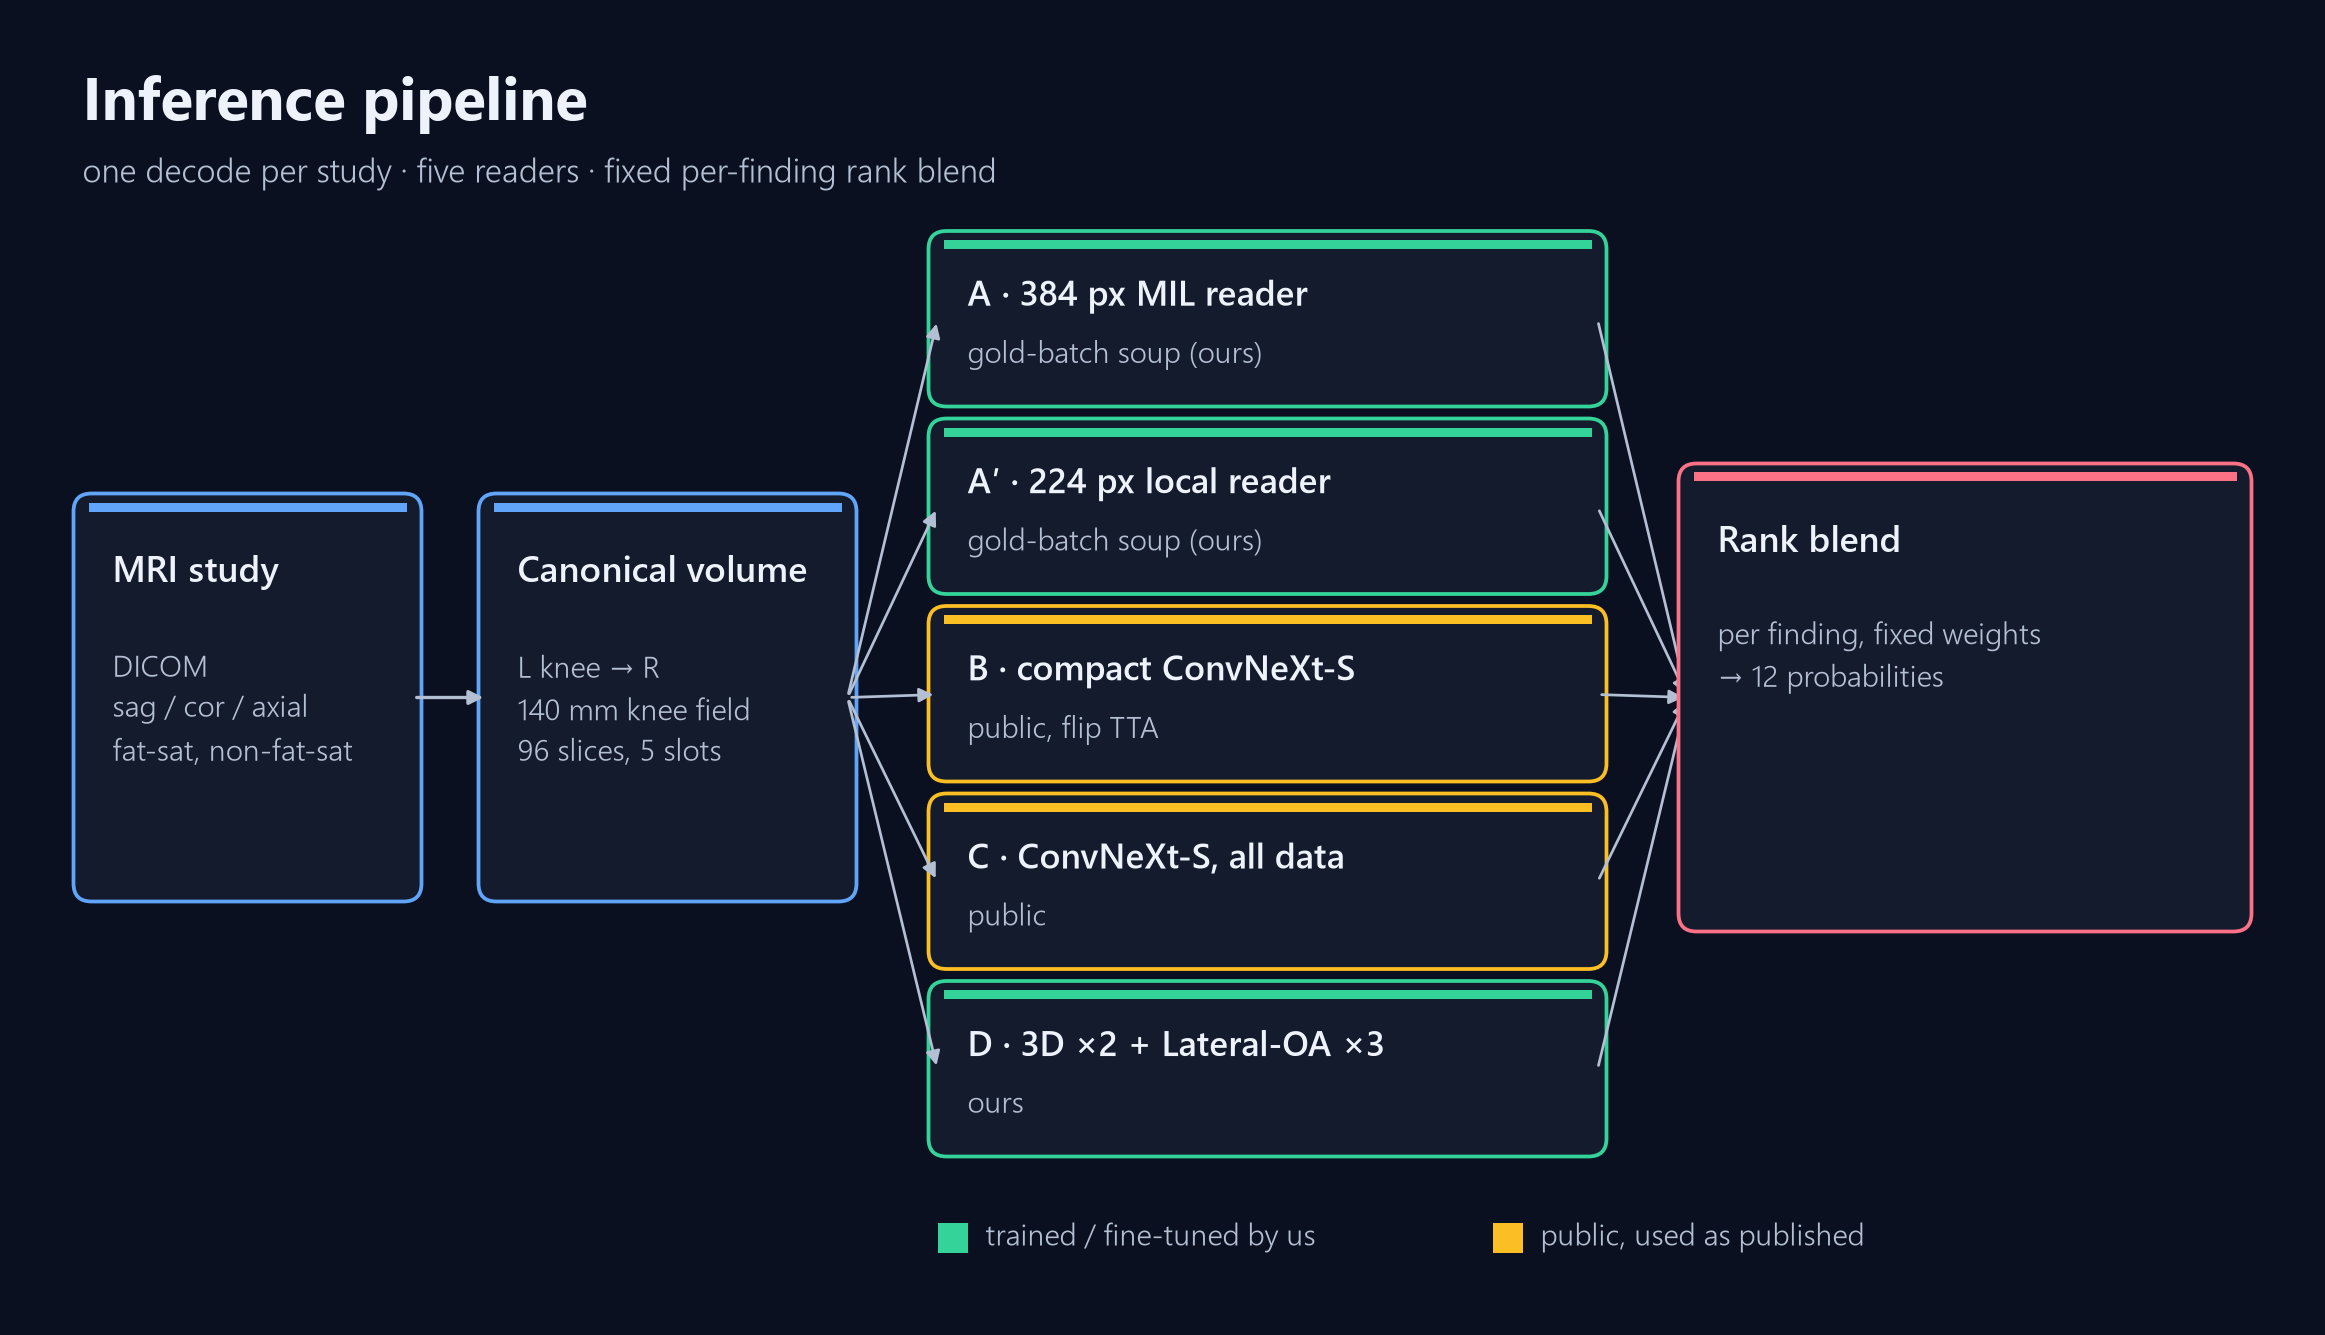
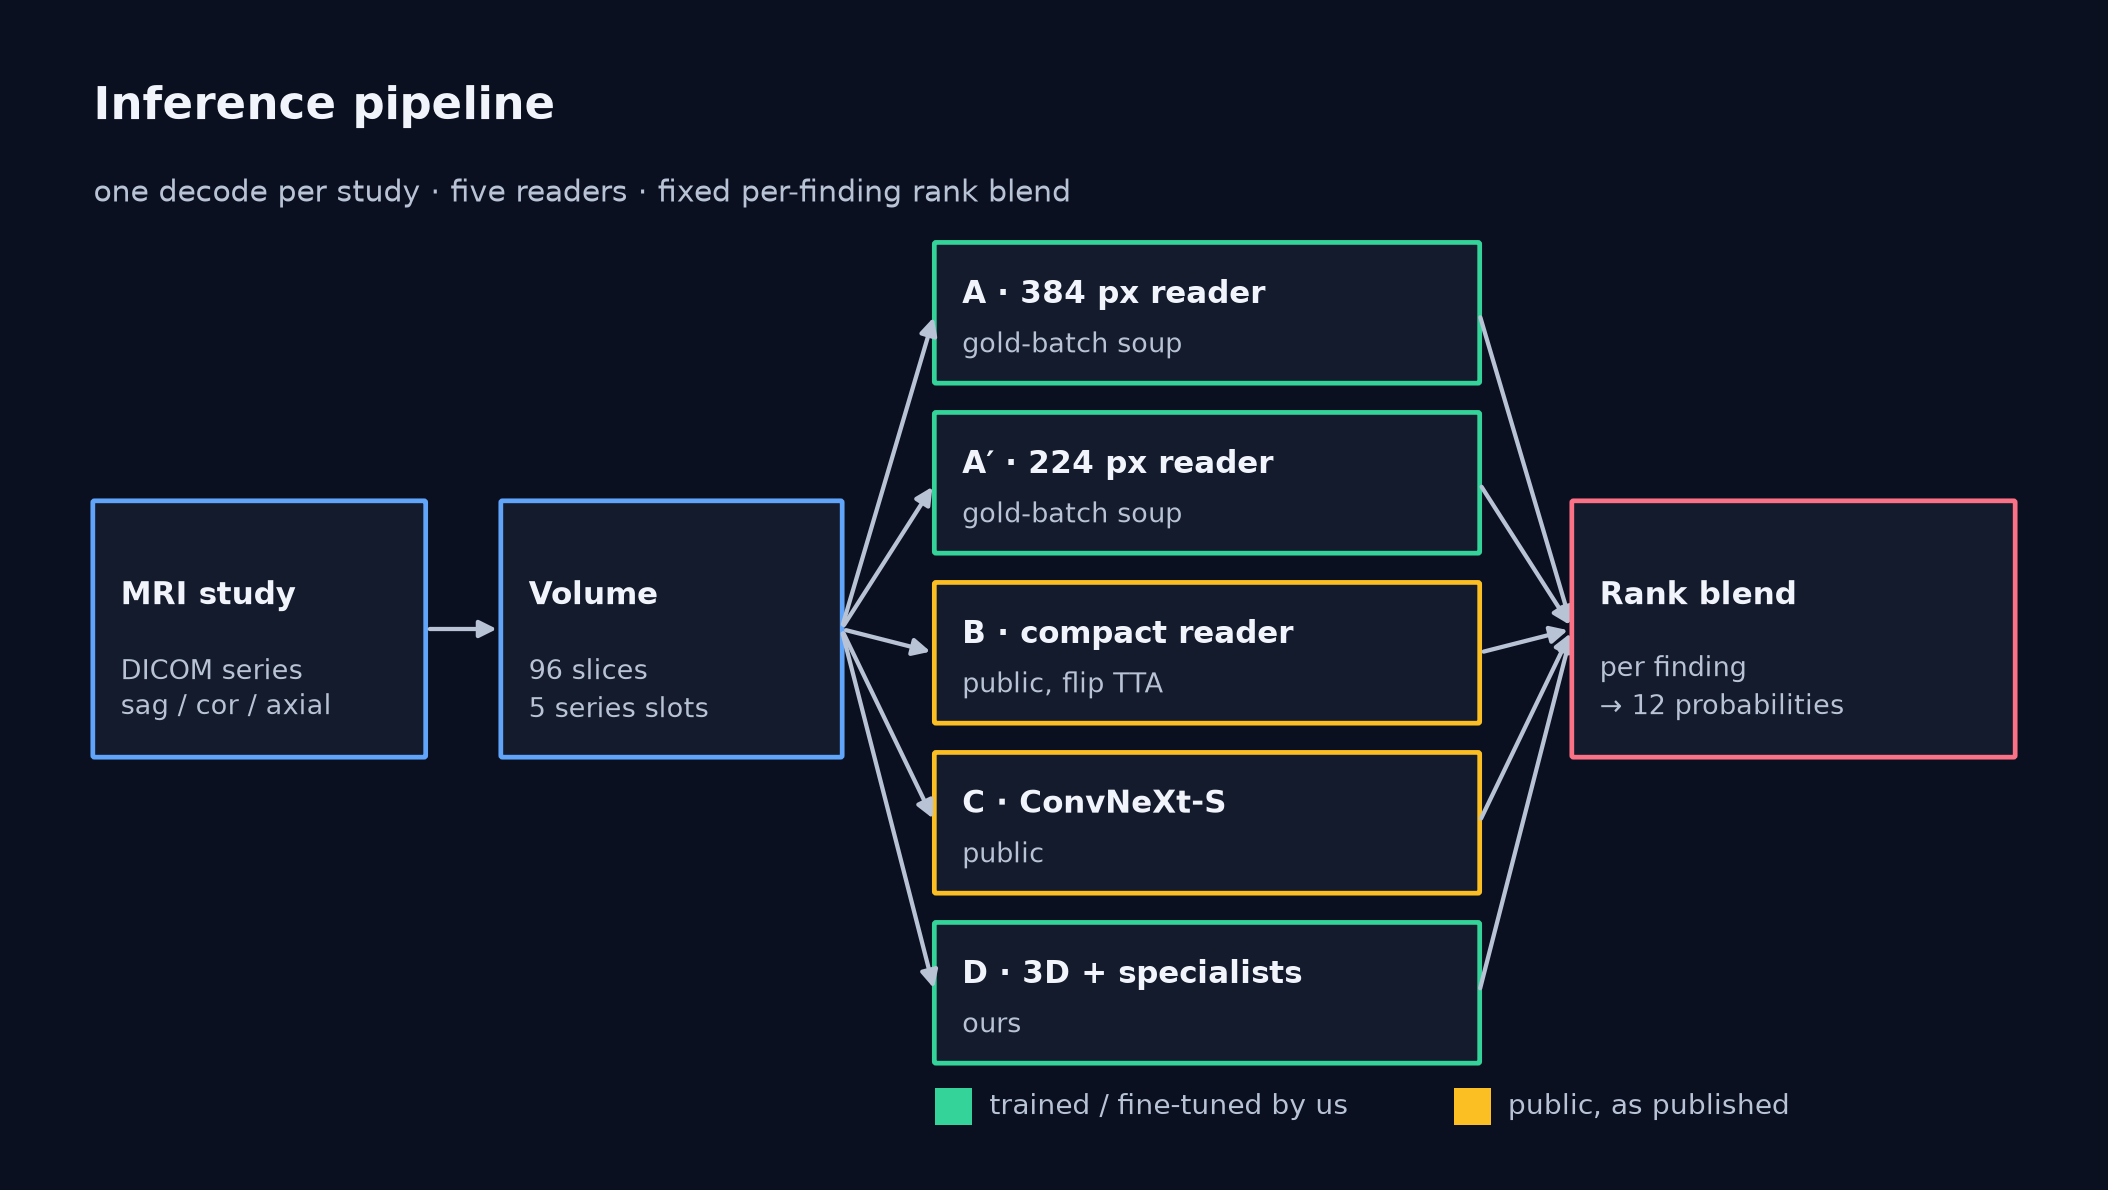
Split figures into one idea each, clearer font, specialist crops as in the code

Changed region(s): [[0.0308, 0.0622, 0.9867, 0.9639]]

diff --git a/README.md b/README.md
@@ -30,45 +30,59 @@ Author: Semyon Davshits
 |---|---|---|---|
 | A | CoAtNet, 2.5D multiple-instance, per-finding attention | 384 px, 94 windows | public checkpoint, fine-tuned by us |
 | A′ | same, local crop | 224 px | public checkpoint, fine-tuned by us |
-| B | compact ConvNeXt-S 2.5D, flip TTA | as published | public (heliosli) |
+| B | compact 2.5D reader, flip TTA | as published | public (heliosli) |
 | C | ConvNeXt-S, all data | 288 px | public (nartaa) |
-| D | r(2+1)D-18 ×2 + Lateral-OA specialist ×3 | 192 px volumes / 320 px zoom | ours |
+| D | r(2+1)D-18 ×2 + Lateral-OA specialist ×3 | 192 px volumes / 320 px crops | ours |
 
 ![pipeline](img/01_pipeline.png)
 
 ## 3. Input
 
-* Series sorted by physical position, orientation canonicalised, left knees mirrored to right.
-* 140 mm field centred on the knee, 96 slices in five slots: sagittal fat-sat, sagittal, coronal fat-sat, coronal, axial.
+Series are sorted by physical position and resampled into five fixed slots: sagittal fat-sat 26, sagittal 22, coronal fat-sat 18, coronal 12, axial 18 slices (96 in total).
 
-![volume](img/02b_volume.png)
+![volume](img/02_volume.png)
 
-* A window is three neighbouring slices stacked as RGB: 94 windows per study.
-* The Lateral-OA specialist sees a 320 px zoom of the lateral compartment.
+Every slice is cropped to a 140 mm field centred on the knee.
 
-![input](img/02_input.png)
+![field](img/03_field.png)
 
-* One shared backbone embeds every window; each of the 12 findings has its own attention over the windows.
-* Mirror TTA: the mirrored study is scored again and averaged.
+A window is three neighbouring slices stacked as RGB; one window is centred on every slice (94 per study).
 
-![mil](img/02c_mil.png)
+![window](img/04_window.png)
 
-## 4. Labels
+Left knees are mirrored to look like right knees.
+
+![mirror](img/07_mirror.png)
+
+## 4. Readers
+
+Reader A embeds every window with one shared backbone; each of the 12 findings has its own attention over the windows. The mirrored study is scored again and averaged.
+
+![mil](img/05_mil.png)
+
+The Lateral-OA specialist sees 82 mm boxes of the lateral compartment on coronal and lateral sagittal slices, resized to 320 px.
+
+![specialist](img/06_specialist.png)
+
+## 5. Labels
 
 * Reports read by language models into per-finding probabilities, averaged with public report-derived label sets.
 * Synovitis, Lateral OA, Effusion and Contusion re-read by larger models.
+
+![label reading](img/08_label_reading.png)
+
 * Loss weight 0.3 where the report is silent on a finding that radiologists often leave unmentioned, 1.0 otherwise.
 * 3D models: 0.7 × reader-A predictions + 0.3 × report label.
+
+![label target](img/09_label_target.png)
 
 | StudyInstanceUID | ACL … Fracture | ACL__w … Fracture__w | is_gold |
 |---|---|---|---|
 | `1.2.3.example` | 0.08 … 0.06 | 1.0 … 0.3 | False |
 
-![labels](img/03_labels.png)
+## 6. Training
 
-## 5. Training
-
-### 5.1 Fine-tuning and weight soups
+### 6.1 Fine-tuning and weight soups
 
 One epoch from the public checkpoint: low LR, EMA, random windows, random mirror, random crop.
 Final reader A = `0.25 × public checkpoint + 4 × 0.1875 × gold-batch fine-tunes`.
@@ -77,23 +91,26 @@ Final reader A = `0.25 × public checkpoint + 4 × 0.1875 × gold-batch fine-tun
 python src/training/make_soup.py soup.pt public.pt:0.25 ft1.pt:0.1875 ft2.pt:0.1875 ft3.pt:0.1875 ft4.pt:0.1875
 ```
 
-### 5.2 Gold batches
+### 6.2 Gold batches
 
-Each training draw is a gold study with probability *p*; final soups use *p* = 0.50.
+With batch size 2 most batches contain no gold study, so a larger loss weight hardly changes their share; sampling with probability *p* does.
+
+![gold share](img/10_gold_share.png)
 
 ```bash
-python src/training/train_raptor_ft.py --holdout -1 --gold_w 1 --gold_frac 0.50 --epochs 1 \
-       --init public.pt --labels labels.csv --out runs/gf50
+python src/training/train_raptor_ft.py --holdout -1 --gold_w 1 --gold_frac 0.50 --epochs 1        --init public.pt --labels labels.csv --out runs/gf50
 ```
 
-![gold](img/04_gold_batches.png)
+Each point is one submission with the 384 px soup fine-tuned at that gold share; final soups use *p* = 0.50.
 
-### 5.3 Specialists and 3D models
+![gold scores](img/11_gold_scores.png)
 
-* Lateral-OA specialist: reader A trained on Lateral OA and Lateral Meniscus only, 320 px zoom of the lateral compartment, 3 seeds.
+### 6.3 Specialists and 3D models
+
+* Lateral-OA specialist: reader A trained on Lateral OA and Lateral Meniscus only, 3 seeds.
 * 3D model: r(2+1)D-18 over each series slot, attention over slots, 12 epochs on the distilled labels, 2 seeds.
 
-## 6. Ensemble
+## 7. Ensemble
 
 Per finding, every reader is converted to ranks, then:
 
@@ -105,18 +122,20 @@ Per finding, every reader is converted to ranks, then:
 | + D (specialists) | rank share 0.30, Lateral OA only |
 | + C | rank share 0.20, all findings |
 
-![runtime](img/07_runtime.png)
+![runtime](img/15_runtime.png)
 
-## 7. Results
+## 8. Results
 
 | Final submission | Public | Private |
 |---|---|---|
 | A = soup of 4 gold-batch fine-tunes (p = 0.50) | 0.960 | 0.944 |
 | A = soup of 2 gold-batch fine-tunes, A′ + gold-batch fine-tune | 0.960 | 0.944 |
 
-![history](img/06_history.png)
+![history](img/12_history.png)
 
-![public vs private](img/05_public_private.png)
+![public vs private](img/13_public_private.png)
+
+![timeline](img/14_timeline.png)
 
 ## Credits
 
